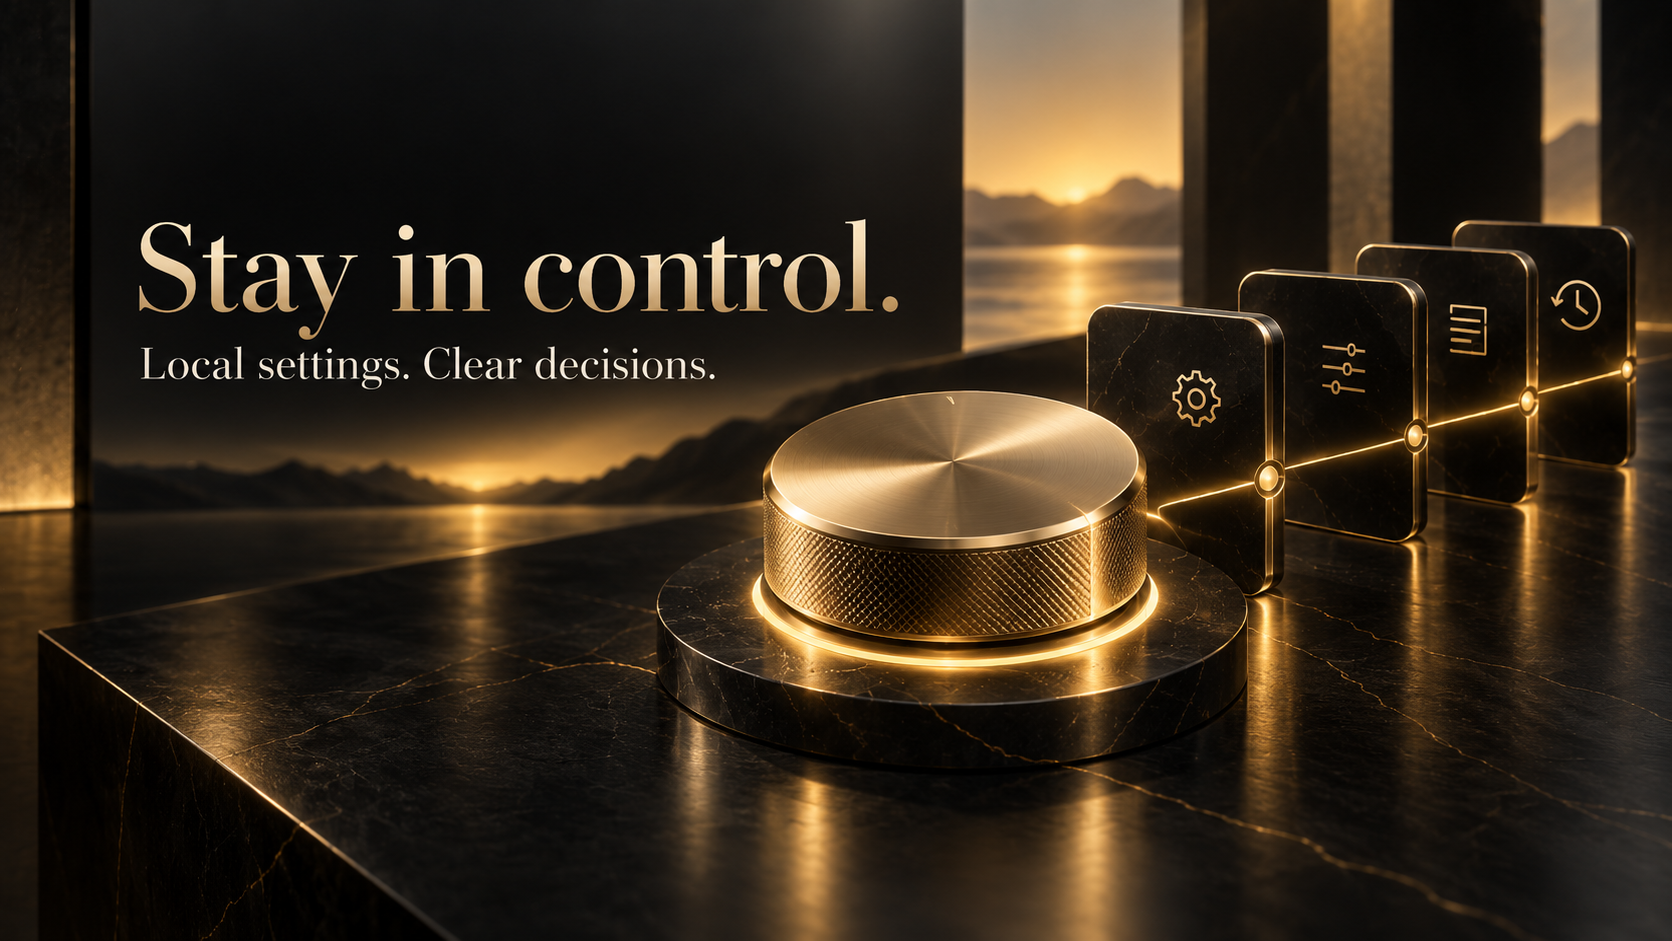
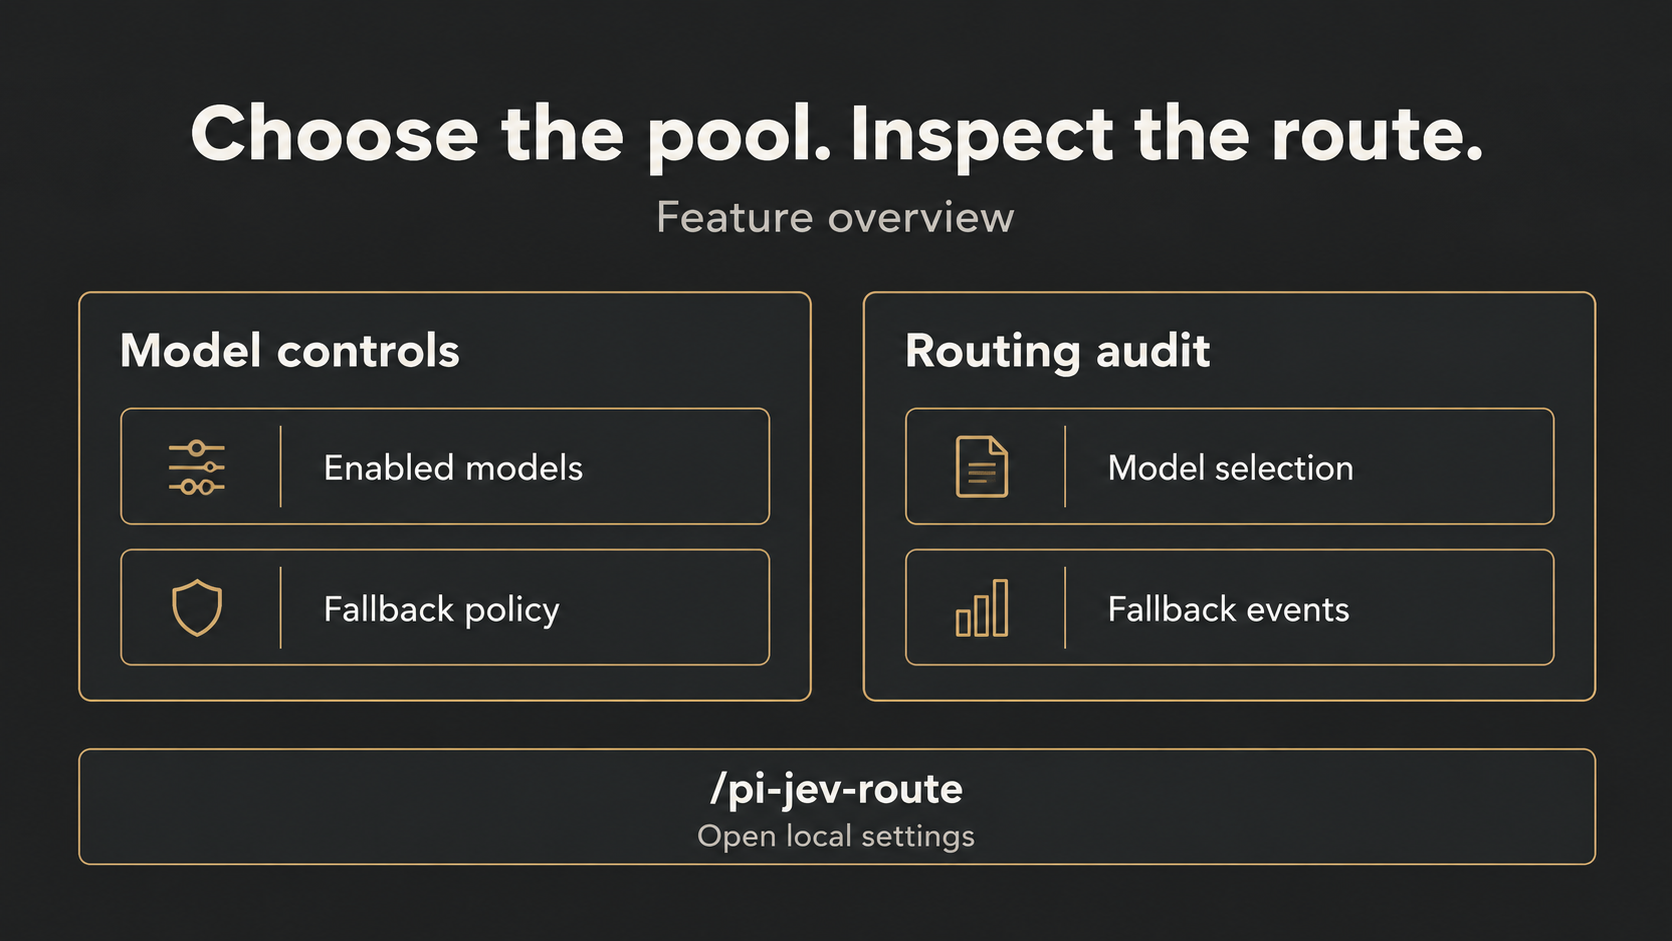
Replace decorative artwork with concise feature illustrations

diff --git a/README.md b/README.md
@@ -1,6 +1,6 @@
 # Pi Jev Route
 
-![Pi Jev Route — The right model. The same main session.](https://raw.githubusercontent.com/eachann1024/pi-jev-route/main/web/assets/route-hero.png)
+![Pi Jev Route — eligible subagent task → Jev selection → enabled model](https://raw.githubusercontent.com/eachann1024/pi-jev-route/main/web/assets/route-hero.png)
 
 Route eligible Pi subagent tasks to a suitable model with Jev—without changing the main session’s model or thinking level.
 
@@ -17,8 +17,6 @@ On first use in an interactive local Pi session, the extension opens its English
 
 The `/pi-jev-route` command opens the local settings and audit console. The first-run welcome flow also starts its loopback server to show the welcome page; installing the npm package alone does not open a browser. The server shuts down after inactivity and does not create a public listener or tunnel.
 
-![Route with intent. Your models. Your scope.](https://raw.githubusercontent.com/eachann1024/pi-jev-route/main/web/assets/route-routing.png)
-
 ## How routing works
 
 - The main session clarifies the request, investigates risks, delegates bounded work, makes key decisions, and summarizes results.
@@ -27,9 +25,11 @@ The `/pi-jev-route` command opens the local settings and audit console. The firs
 
 The extension covers model-originated structured calls to a single native Pi subagent. It does not globally intercept workflow scripts, `/run`, schedules, other extensions’ direct delegation, or external CLI/job runners. Nested routing is not guaranteed. [Coverage and audit details](https://github.com/eachann1024/pi-jev-route/blob/main/docs/reference.md#coverage-and-audit).
 
-![Stay in control. Local settings. Clear decisions.](https://raw.githubusercontent.com/eachann1024/pi-jev-route/main/web/assets/route-control.png)
-
 ## Local console
+
+![Model controls and routing audit — feature overview](https://raw.githubusercontent.com/eachann1024/pi-jev-route/main/web/assets/route-control.png)
+
+**Model controls and routing audit.** Choose allowed models and fallback policy; inspect selections and fallback events. Feature diagram, not a UI screenshot; audit does not prove task completion.
 
 The console lists configured models and exposes routing, fallback, and audit settings. Changes are saved locally. It uses no external scripts, fonts, or assets. Remote or headless sessions do not automatically open a local browser.
 

diff --git a/README.zh-CN.md b/README.zh-CN.md
@@ -1,6 +1,6 @@
 # Pi Jev Route
 
-![Pi Jev Route — The right model. The same main session.](https://raw.githubusercontent.com/eachann1024/pi-jev-route/main/web/assets/route-hero.png)
+![Pi Jev Route — eligible subagent task → Jev selection → enabled model](https://raw.githubusercontent.com/eachann1024/pi-jev-route/main/web/assets/route-hero.png)
 
 为 Pi 的子代理任务自动选择合适模型；主会话模型与思考强度保持不变。
 
@@ -17,8 +17,6 @@ pi install npm:@each1024/pi-jev-route
 
 `/pi-jev-route` 打开本机设置与审计页面。首次欢迎流程也会启动回环服务以显示欢迎页；仅安装 npm 包不会自动打开浏览器。服务闲置后关闭，不会创建公网监听或隧道。
 
-![Route with intent. Your models. Your scope.](https://raw.githubusercontent.com/eachann1024/pi-jev-route/main/web/assets/route-routing.png)
-
 ## 路由方式
 
 - 主会话负责澄清需求、调研风险、委派有边界的工作、关键决策和总结。
@@ -27,9 +25,11 @@ pi install npm:@each1024/pi-jev-route
 
 扩展覆盖模型发起的单个原生 Pi 子代理结构化调用；不全局拦截工作流脚本、`/run`、定时任务、其他扩展的直接委派或外部 CLI/job。嵌套路由不作保证。[覆盖范围与审计细节](https://github.com/eachann1024/pi-jev-route/blob/main/docs/reference.zh-CN.md#覆盖范围与审计)。
 
-![Stay in control. Local settings. Clear decisions.](https://raw.githubusercontent.com/eachann1024/pi-jev-route/main/web/assets/route-control.png)
-
 ## 本机页面
+
+![Model controls and routing audit — feature overview](https://raw.githubusercontent.com/eachann1024/pi-jev-route/main/web/assets/route-control.png)
+
+**模型范围与路由审计。** 选择允许使用的模型和回退策略，查看选型及回退记录。上图为功能示意，不是界面截图；审计不代表任务完成。
 
 设置页列出配置模型，并提供路由、回退和审计选项；修改会保存到本机。页面不加载外部脚本、字体或资源。远程或无界面会话不会自动打开本机浏览器。
 
